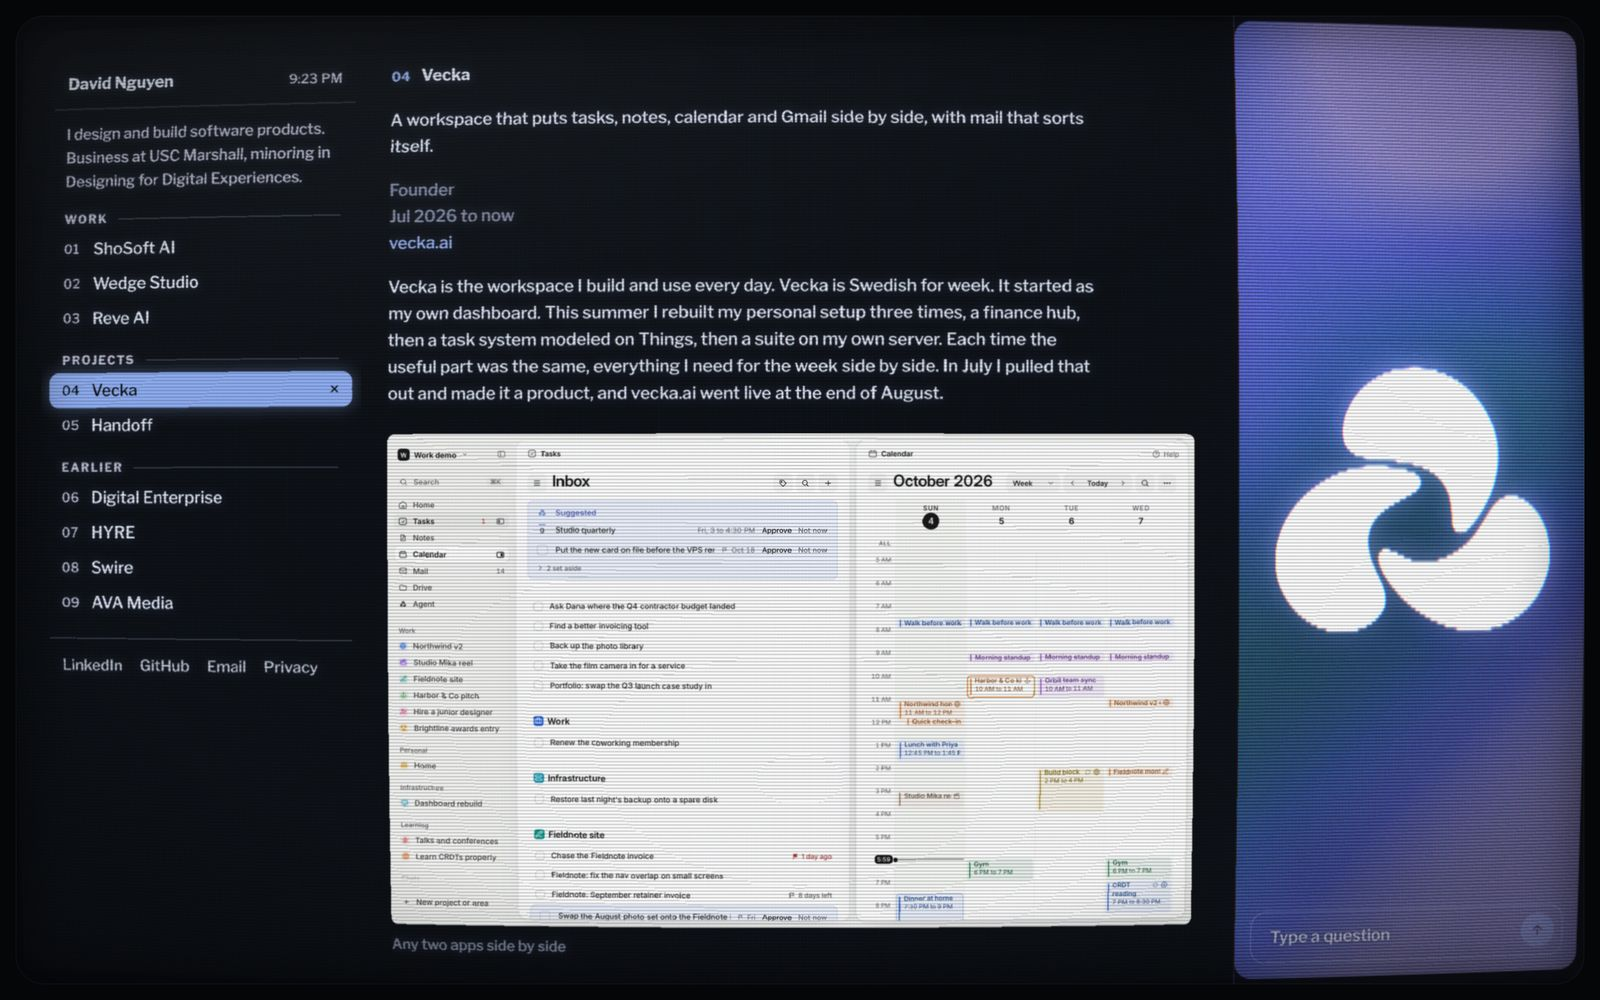
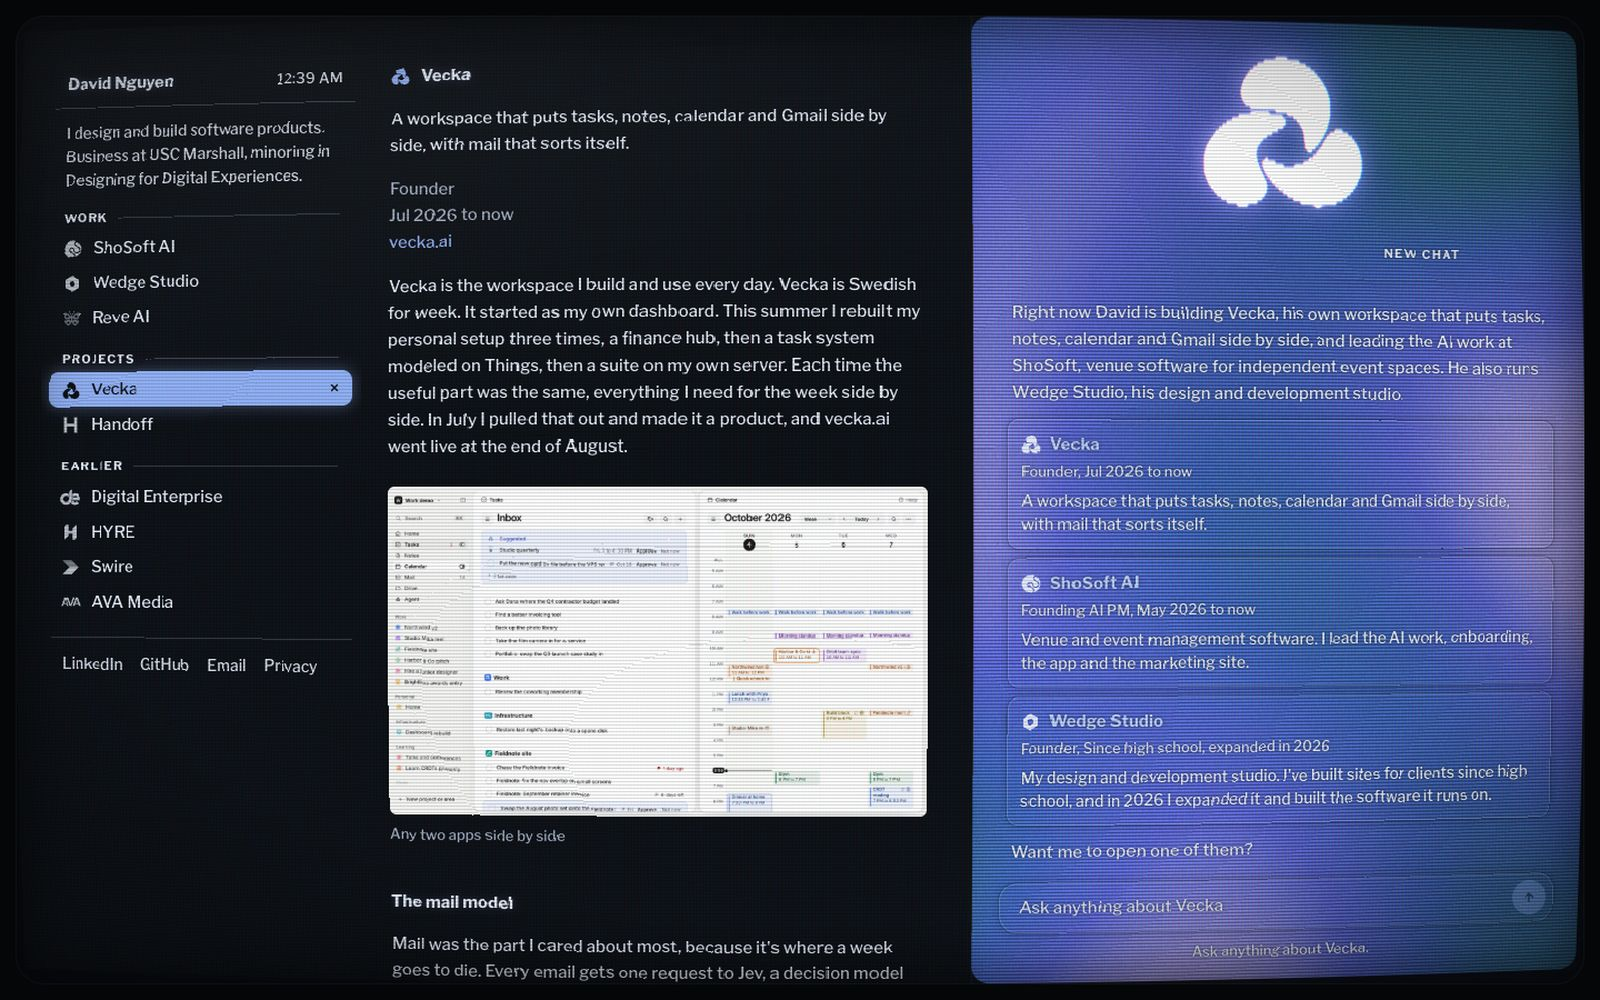
Give the chat the room beside an open project
Deliberate visual change, GPU agents rebaseline open project views.

The article is now a reading column (about 48% of the room beside the
guide, 460 to 680px, text near 620px wide, screenshots to match), and
the chat takes the rest as a real panel, never under 400px on desktop:
the project's logo smaller in the zone at its top (still phosphor, still
morphing), the conversation always visible and scrolling in the middle,
the box and its line at the bottom. Phones are unchanged. Live.tsx only
gains that the dock is always open. README and its screen updated.

diff --git a/src/components/site/crt.ts b/src/components/site/crt.ts
@@ -613,8 +613,13 @@ export function startCrt(canvas: HTMLCanvasElement, w: Wants): (() => void) | nu
     const target = w.mark.current;
     if (target && goal > 0) lastCut = goal;
     const vw = W - lastCut;
-    const fitW = Math.max(120, Math.min(288, Math.floor((vw * 0.8) / 8) * 8));
-    const fitH = Math.max(120, Math.min(240, Math.floor((H * 0.4) / 8) * 8));
+    /* the logo's room: with the chat panel below it, the zone above the
+       panel (its top less a margin); otherwise the strip */
+    const dock = glass.querySelector<HTMLElement>('.crt-slot[data-mode="dock"]');
+    const dockTop = dock ? dock.getBoundingClientRect().top - canvas.getBoundingClientRect().top : 0;
+    const roomH = dockTop > 80 ? dockTop - 56 : H * 0.4;
+    const fitW = Math.max(96, Math.min(dockTop > 80 ? 200 : 288, Math.floor((vw * 0.8) / 8) * 8));
+    const fitH = Math.max(96, Math.min(240, Math.floor(roomH / 8) * 8));
     const fit = `${fitW}x${fitH}`;
     if (!target) {
       /* closing: the logo fades out where it is */
@@ -653,14 +658,9 @@ export function startCrt(canvas: HTMLCanvasElement, w: Wants): (() => void) | nu
 
     readCalm(dt);
 
-    /* the logo rises into the free part of the strip while the chat's
-       sheet is open over its lower half, and settles back after */
-    let wantY = H / 2;
-    const sheet = glass.querySelector<HTMLElement>('.crt-slot[data-mode="dock"][data-expanded]');
-    if (sheet) {
-      const top = sheet.getBoundingClientRect().top - canvas.getBoundingClientRect().top;
-      wantY = Math.min(H / 2, Math.max(fitH / 2 + 24, top / 2 + 6));
-    }
+    /* the logo sits in the zone above the chat panel when there is one,
+       otherwise in the middle of the strip, easing between the two */
+    const wantY = dockTop > 80 ? dockTop / 2 + 4 : H / 2;
     logoY = logoY < 0 || still ? wantY : logoY + (wantY - logoY) * Math.min(1, dt / 220);
 
     /* the power on: a dot, a line across, the picture opening out

diff --git a/src/components/site/chat/chat.css b/src/components/site/chat/chat.css
@@ -517,15 +517,17 @@ a.card:focus-visible { outline: 1.5px solid var(--link); outline-offset: 2px; }
 }
 @media (max-width: 999px) { .crt-history, .hist-toggle { display: none; } }
 
-/* Docked beside an open article: a slim bar at the bottom of the strip;
-   in use, the conversation opens upward over the strip */
+/* Docked beside an open article: a real conversation panel filling the
+   room right of the article, under the project's logo (crt.ts keeps the
+   logo in the zone above it): the conversation scrolls in the middle,
+   the box and its line at the bottom. */
 .crt-slot[data-mode="dock"] {
-  left: calc(var(--side) + var(--col) + 14px);
-  right: 14px;
-  top: auto;
-  bottom: 14px;
+  left: calc(var(--side) + var(--col) + 24px);
+  right: 24px;
+  top: var(--logo-zone, 196px);
+  bottom: 18px;
   width: auto;
-  height: 52%;
+  height: auto;
   transform: none;
 }
 .crt-slot[data-mode="dock"] .cards { grid-template-columns: 1fr; }

diff --git a/src/styles/site.css b/src/styles/site.css
@@ -47,10 +47,14 @@
   --side: calc(var(--panel-w) + 2 * var(--inset));
   /* the scanline pitch, set by the screen to match its own lines */
   --scan: 3px;
-  /* the article's width: text keeps a reading measure, screens use the
-     whole column so their UI reads at a size close to the text; the
-     field always keeps a strip */
-  --col: min(1060px, calc(100vw - 2 * var(--pad) - var(--side) - 320px));
+  /* An open project splits the screen beside the guide: the article
+     takes a reading column (about 48% of the room, 460 to 680px, so its
+     text keeps a measure near 620px and screenshots match it), and the
+     chat panel takes the rest, never under 400px on desktop. */
+  --room: calc(100vw - 2 * var(--pad) - var(--side));
+  --col: clamp(340px, min(calc(var(--room) * 0.48), calc(var(--room) - 400px)), 680px);
+  /* the top of the panel, where the project's logo glows */
+  --logo-zone: 196px;
   color-scheme: dark;
 }
 

diff --git a/src/components/site/chat/Live.tsx b/src/components/site/chat/Live.tsx
@@ -236,7 +236,7 @@ function Screen({ open, all, headline, cid, swap, switchTo }: ScreenProps) {
   useEffect(() => { if (running) setPinned(true); }, [running]);
   /* in the dock an empty conversation stays a bar, unless there are past
      chats to reach (then just their button shows above it) */
-  const expanded = mode === 'center' || menu || ((focused || pinned) && (mode === 'bar' || !empty || past));
+  const expanded = mode === 'center' || mode === 'dock' || menu || ((focused || pinned) && (mode === 'bar' || !empty || past));
 
   const focusInput = () => { if (!matchMedia('(hover: none)').matches) input.current?.focus(); };
   const away = () => { setMenu(false); setPinned(false); setFocused(false); input.current?.blur(); };

diff --git a/README.md b/README.md
@@ -9,11 +9,11 @@ I'm David Nguyen, a business student at USC Marshall with a minor in Designing f
 ## What it does
 
 - **The whole page is the screen.** There is no sidebar beside a picture. My name, a line about me and every project sit on the glass in a guide panel composed like a TV's channel guide: a header strip with the time, every project marked by its own small logo in phosphor (its brand colour on hover), the open one on a selection bar. Up and down change the channel.
-- **Projects slide in on the tube.** Picking one sweeps the picture's edge across the screen as a bright line of phosphor with a short afterglow, the write up easing in behind it, curved and scanlined with the glass the whole way. Closing slides it back; switching wipes the new write up in over the old with the same line. On phones it slides up over the guide. The project's logo glows in the strip that's left, in that brand's colours.
+- **Projects slide in on the tube.** Picking one sweeps the picture's edge across the screen as a bright line of phosphor with a short afterglow, the write up easing in behind it, curved and scanlined with the glass the whole way. Closing slides it back; switching wipes the new write up in over the old with the same line. On phones it slides up over the guide. The screen splits: the write up in a reading column, and beside it a wide chat panel in that brand's colours, the project's logo glowing at its top.
 - **A chat in the middle.** It opens the way ChatGPT does, one line picked at random above the box and "Ask anything about David." under it. Visitors can ask about my work. Answers stream in, and when it helps the assistant shows project cards, a timeline or my contact details, or opens a project on the page for them. The conversation follows you around the site: open a project and the chat docks beside it ("Ask anything about ShoSoft") and already knows which project and which part of it you're reading. Every visit starts a new chat, and every past one is listed in the bottom right corner to pick up again.
 - **It feels like a real tube.** It powers on with a dot, a line and a short wobble, moving things leave a little afterglow, and the picture bends slightly near the cursor like a magnet near the glass.
 
-| A question answered with cards | A project open, chat docked | On a phone |
+| A question answered with cards | A project open, the chat panel beside it | On a phone |
 |---|---|---|
 | ![](docs/screens/04-answer-cards-dark.jpg) | ![](docs/screens/07-docked-bar.jpg) | ![](docs/screens/14-mobile-conversation.jpg) |
 
@@ -48,7 +48,7 @@ Scanlines always land on whole device pixels so they never shimmer, and the rend
 
 The chat UI is built on [assistant-ui](https://github.com/assistant-ui/assistant-ui)'s unstyled pieces, restyled so the text reads as if it's on the glass: no panel behind it, light phosphor text with a tight dark halo so it holds up over the brightest part of the picture, and thin phosphor outlines for the box and the cards. It's deliberately bare, a line, the box and one line under it. Once a conversation starts the box settles to the bottom and each question pins to the top while its answer types out below it.
 
-- **One conversation across the site.** Opening, switching and closing projects keep it. With a project open it docks to the bottom of the strip beside the article as a slim bar that opens upward while in use; on phones it's a bar that opens into a full screen conversation, over the article too.
+- **One conversation across the site.** Opening, switching and closing projects keep it. With a project open it becomes a full panel beside the article, the conversation in the middle and the box at the bottom; on phones it's a bar that opens into a full screen conversation, over the article too.
 - **It knows where you are.** Every message carries the open project, the heading you're reading in its write up, how far down you are, and whether you're on a phone, so "tell me more about this part" works.
 - **New chat and History.** A page load starts a new conversation and New chat starts one too. Past ones are kept in your browser only (`localStorage`). History stands in the bottom right corner of the screen, laid out like the guide's channels: New chat at the top, then every conversation newest first, numbered in the order they were started, titled by its first question, with how long ago it was used and the one on screen marked. Where there's no room for it (a project open, a narrower window) it folds into a History toggle in that corner, and on phones it's a button at the start of the chat bar that opens the list full screen. Coming Back to the page picks the last conversation up again.
 - **Motion.** Everything moves on one curve and enters a little up and in; the answer types out at an even pace behind a beam whatever the network does, cards follow one after another, and the chat fades rather than slides when it changes place. Reduced motion turns it all off.
